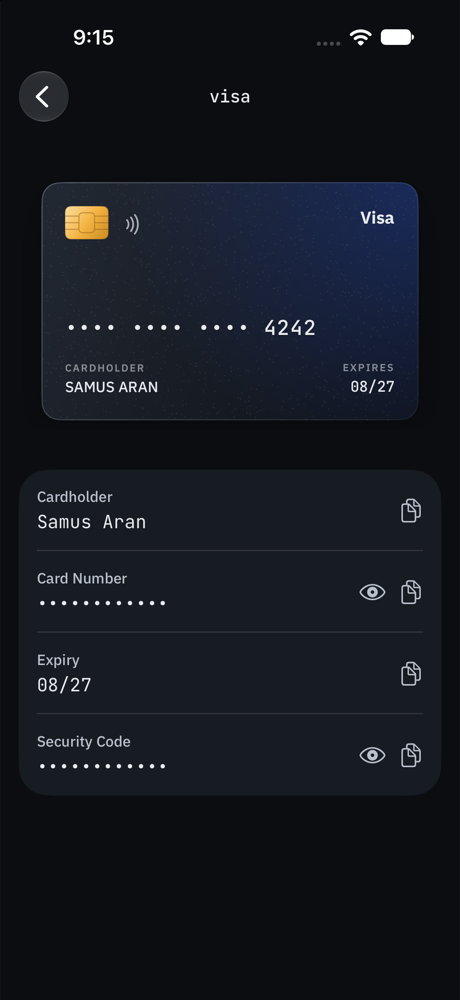
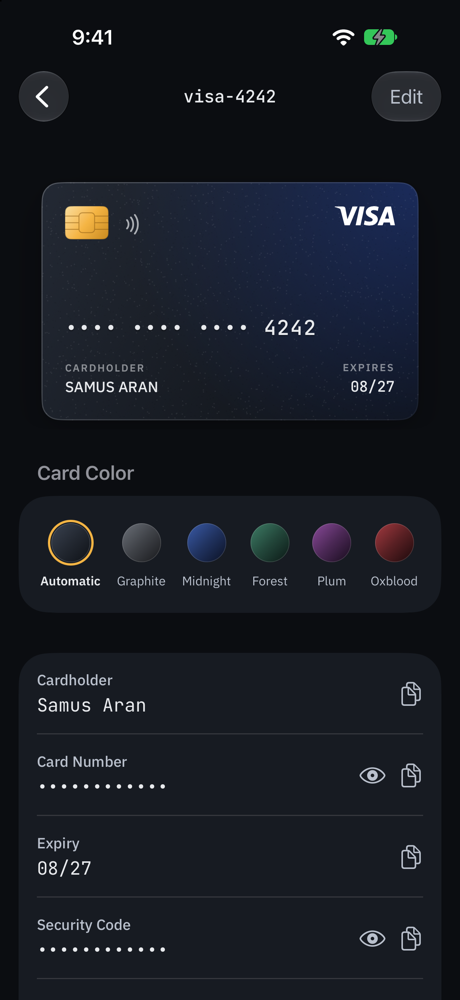
Refresh screenshots and the README for the finished iPhone app
- Re-render the Mac card view (Visa logo) and both iPhone screenshots (logins, card colors), sample data only
- README: export copies only standard fields, Settings, and the expiry date rules

diff --git a/README.md b/README.md
@@ -57,8 +57,8 @@ Building needs Rust and the free Xcode Command Line Tools (`xcode-select --insta
 Keep your cards, bank accounts, and logins on your iPhone, unlocked with Face ID. Notes and SSH keys never go to the phone, and logins go only if you add them there or export them.
 
 <p align="center">
-  <img src="docs/screenshots/iphone-list.png" alt="The stash iPhone app: a list of cards and bank accounts, showing only the last four digits" width="260">
-  <img src="docs/screenshots/iphone-card.png" alt="A card in the stash iPhone app, with its number and security code hidden" width="260">
+  <img src="docs/screenshots/iphone-list.png" alt="The stash iPhone app: cards, bank accounts, and logins, showing only the last four digits and usernames" width="260">
+  <img src="docs/screenshots/iphone-card.png" alt="A Visa card in the stash iPhone app, with its number and security code hidden, and a choice of card colors" width="260">
 </p>
 
 ```sh
@@ -68,11 +68,11 @@ stash export --phone ~/Desktop/phone.stashvault   # asks for Touch ID, then a pa
 
 Then AirDrop `phone.stashvault` to your iPhone and open it in stash (or, in Finder, drop it on your iPhone under Files → stash), unlock it with the password you chose, and delete the file from your Desktop. stash then asks whether to use Face ID from now on, and you can change that in Settings.
 
-To bring your logins and their 2FA too, add `--logins` to the export.
+To bring your logins and their 2FA too, add `--logins` to the export. Exports copy only standard fields: never notes or custom fields.
 
 **No Mac vault to copy?** Tap **Skip** on the first screen, choose a password, and add your logins, cards, and bank accounts on the phone. That vault exists only on that iPhone: it isn't in iCloud or any backup, and nothing syncs it to your Mac.
 
-- **What it does:** shows your cards (with the same card face as the Mac app) and bank accounts, reveals a number or security code when you tap the eye, and copies values to the clipboard, where they stay on the phone (no Universal Clipboard) and clear after a minute. It locks as soon as you leave the app and hides itself in the app switcher.
+- **What it does:** shows your cards (with the same card face as the Mac app) and bank accounts, reveals a number or security code when you tap the eye, and copies values to the clipboard, where they stay on the phone (no Universal Clipboard) and clear after a minute. It locks as soon as you leave the app and hides itself in the app switcher. Settings (the gear) holds Face ID and replacing or removing the vault.
 - **A vault from your Mac is read-only:** to change something, change it on your Mac and export again; opening the new file replaces the old one. Syncing is planned.
 - **Logins** show their username and website, with the password hidden until you ask, and live 2FA codes. Set up 2FA by scanning a site's QR code or pasting its key. Copy them into the site or app: stash doesn't fill passwords on the iPhone yet.
 - **Card colors:** choose a color for any card. It's saved in the vault on the phone, and doesn't show on the Mac.
@@ -215,7 +215,7 @@ stash get cards/visa#cvv        # also #expiry, #name, #zip
 stash ls --long                 # "Visa •••• 4242 · 08/27"
 ```
 
-- **Typos are caught before they're saved.** Card numbers must pass their Luhn checksum and match the brand's length, and expiry must be a real MM/YY. Routing numbers are checked with the ABA checksum and IBANs with mod-97.
+- **Typos are caught before they're saved.** Card numbers must pass their Luhn checksum and match the brand's length, and expiry must be a real MM/YY no more than 20 years away (an expired card gets a warning but can be kept). Routing numbers are checked with the ABA checksum and IBANs with mod-97.
 - **Last four only in lists.** `show`, `ls --long`, and the app show just the last four digits until you reveal. In the app, a card gets a card face.
 - **Off-limits to AI agents by default.** `stash mcp` won't list or use cards and bank accounts unless you start it with `--allow-payments`. Blocked attempts go in the audit log.
 
